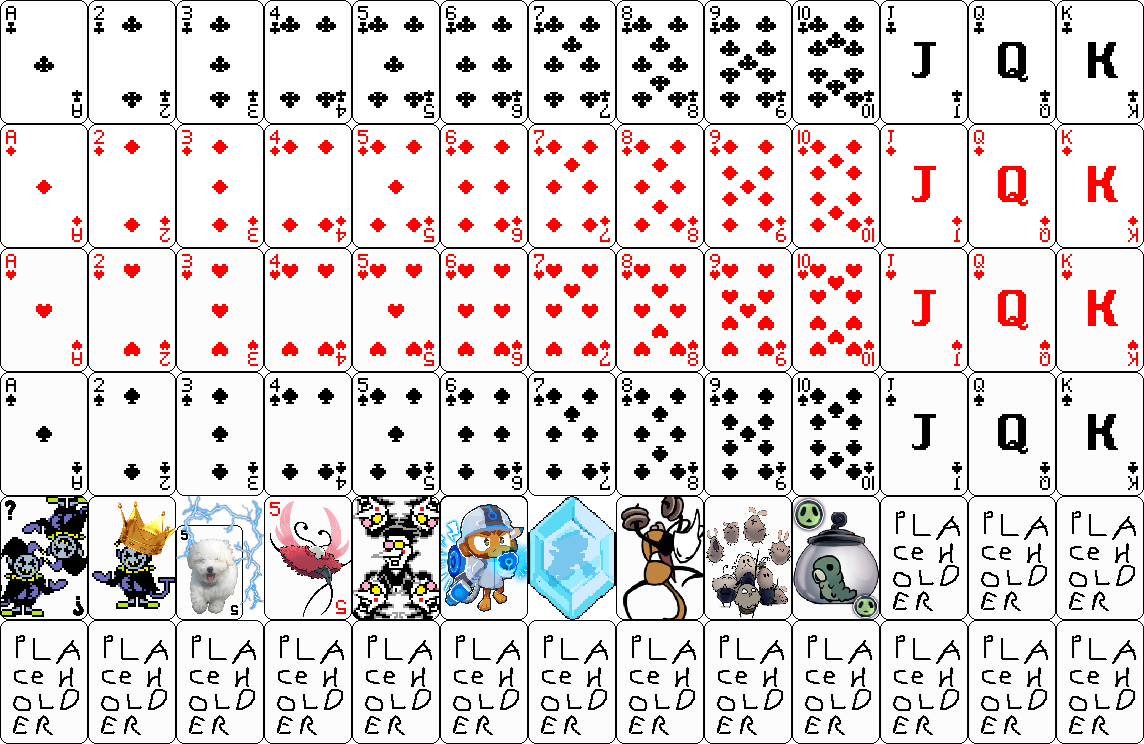
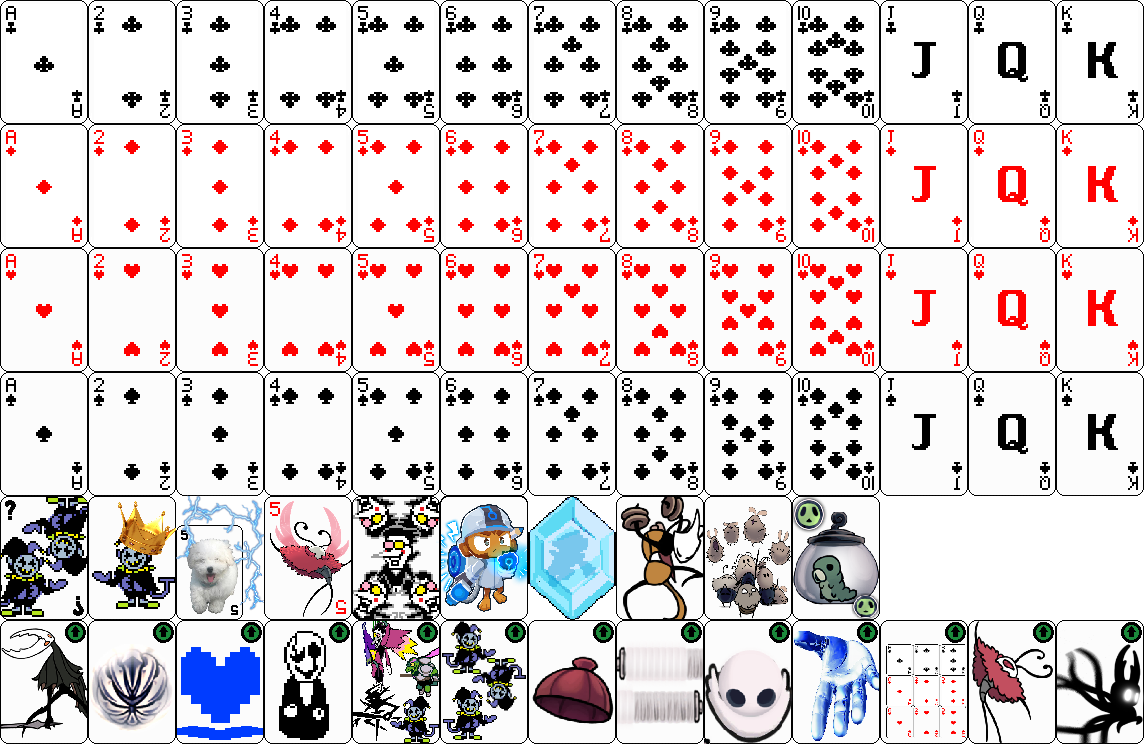
all card images

Changed region(s): [[0.0, 0.6801, 1.0, 1.0], [0.7649, 0.6801, 0.7955, 0.711]]

diff --git a/js/game state/upgrades.js b/js/game state/upgrades.js
@@ -23,19 +23,19 @@ window.all_upgrades = {
     ],
 
     "permanent_upgrades": [
-    {"suit": "permanent_upgrade_row_1", "value": "increase_max_total_value", "hover_name": "power of the vessel", "hover_text": "'Sealed away it's power grows.' permanent upgrade: increases the maximum total value by 2", "effect": increase_max_total_value},
-    {"suit": "permanent_upgrade_row_1", "value": "increase_max_total_value_but_less_discards", "hover_name": "fragile strength", "hover_text": "'Great strength but great risks.' permanent upgrade: increases the maximum total value by 5 but have 1 less discard", "effect": increase_max_total_value_but_less_discards},
-    {"suit": "permanent_upgrade_row_1", "value": "increase_blackjack_bonus", "hover_name": "blue SOUL focus", "hover_text": "'patience brings better score.' permanent upgrade: increases the blackjack bonus multiplier by 0.5", "effect": increase_blackjack_bonus},
-    {"suit": "permanent_upgrade_row_1", "value": "extra_upgrade_slot_but_decrease_max_total_value", "hover_name": "A 🕈📬🕈 ☝☟✌💧❄☜☼ deal", "hover_text": "'A deal with 🕈📬🕈 ☝☟✌💧❄☜☼ can't be good right?' permanent upgrade: increases the amount of upgrades you can choose from by 1 but maximum total value decreases by 3", "effect": extra_upgrade_slot_but_decrease_max_total_value},
-    {"suit": "permanent_upgrade_row_1", "value": "extra_upgrade_slot_but_decrease_hands", "hover_name": "Deal for a weird crystal", "hover_text": "'What does this crystal do?' permanent upgrade: increases the amount of upgrades you can choose from by 1 but maximum number of hands decreases by 1", "effect": extra_upgrade_slot_but_decrease_hands},
-    {"suit": "permanent_upgrade_row_1", "value": "increase_hands_but_negative_blackjack", "hover_name": "Jester's chaos", "hover_text": "'Chaos, Chaos! more turns less mercy!' permanent upgrade: increases number of hands by 1 but decrease blackjack multiplier to -0.5 (losing points for blackjack)", "effect": increase_hands_but_negative_blackjack},
-    {"suit": "permanent_upgrade_row_1", "value": "increase_hands_but_less_discards", "hover_name": "drifter's cloak", "hover_text": "'Go further, but remove what brings you down' permanent upgrade: increases number of hands by 1 but have 1 less discard", "effect": increase_hands_but_less_discards},
-    {"suit": "permanent_upgrade_row_1", "value": "increase_discards_but_less_hands", "hover_name": "silken strategy", "hover_text": "'Embrace the silk, but lose your grip.' permanent upgrade: increases number of discards by 1 but have 1 less hand", "effect": increase_discards_but_less_hands},
-    {"suit": "permanent_upgrade_row_1", "value": "increase_discards_but_draw_more", "hover_name": "soul overflow", "hover_text": "'Embrace the chaos.' permanent upgrade: increases number of discards by 6 but draw 5 more cards at the beginning", "effect": increase_discards_but_draw_more},
+    {"suit": "permanent_upgrade_row_1", "value": "increase_max_total_value", "hover_name": "power of the vessel", "hover_text": "'Sealed away it's power grows.' permanent upgrade: increases the maximum total value by 2", "effect": increase_max_total_value},// hk refrence
+    {"suit": "permanent_upgrade_row_1", "value": "increase_max_total_value_but_less_discards", "hover_name": "fragile strength", "hover_text": "'Great strength but great risks.' permanent upgrade: increases the maximum total value by 5 but have 1 less discard", "effect": increase_max_total_value_but_less_discards}, // hk refrence
+    {"suit": "permanent_upgrade_row_1", "value": "increase_blackjack_bonus", "hover_name": "blue SOUL focus", "hover_text": "'patience brings better score.' permanent upgrade: increases the blackjack bonus multiplier by 0.5", "effect": increase_blackjack_bonus}, // undertale reference
+    {"suit": "permanent_upgrade_row_1", "value": "extra_upgrade_slot_but_decrease_max_total_value", "hover_name": "A 🕈📬🕈 ☝☟✌💧❄☜☼ deal", "hover_text": "'A deal with 🕈📬🕈 ☝☟✌💧❄☜☼ can't be good right?' permanent upgrade: increases the amount of upgrades you can choose from by 1 but maximum total value decreases by 3", "effect": extra_upgrade_slot_but_decrease_max_total_value}, // undertale reference
+    {"suit": "permanent_upgrade_row_1", "value": "extra_upgrade_slot_but_decrease_hands", "hover_name": "Deal for a weird crystal", "hover_text": "'What does this crystal do?' permanent upgrade: increases the amount of upgrades you can choose from by 1 but maximum number of hands decreases by 1", "effect": extra_upgrade_slot_but_decrease_hands}, // detarune reference
+    {"suit": "permanent_upgrade_row_1", "value": "increase_hands_but_negative_blackjack", "hover_name": "Jester's chaos", "hover_text": "'Chaos, Chaos! more turns less mercy!' permanent upgrade: increases number of hands by 1 but decrease blackjack multiplier to -0.5 (losing points for blackjack)", "effect": increase_hands_but_negative_blackjack}, // detarune reference
+    {"suit": "permanent_upgrade_row_1", "value": "increase_hands_but_less_discards", "hover_name": "drifter's cloak", "hover_text": "'Go further, but remove what brings you down' permanent upgrade: increases number of hands by 1 but have 1 less discard", "effect": increase_hands_but_less_discards}, // hk refrence
+    {"suit": "permanent_upgrade_row_1", "value": "increase_discards_but_less_hands", "hover_name": "silken strategy", "hover_text": "'Embrace the silk, but lose your grip.' permanent upgrade: increases number of discards by 1 but have 1 less hand", "effect": increase_discards_but_less_hands}, // hk refrence
+    {"suit": "permanent_upgrade_row_1", "value": "increase_discards_but_draw_more", "hover_name": "soul overflow", "hover_text": "'Embrace the chaos.' permanent upgrade: increases number of discards by 6 but draw 5 more cards at the beginning", "effect": increase_discards_but_draw_more}, // hk refrence
     {"suit": "permanent_upgrade_row_1", "value": "1_hand_now", "hover_name": "glass hand", "hover_text": "'make sure it does not shatter' permanent upgrade: this round you have 1 hand but after this round you will get 2", "effect": hand_now_1_later_2},
     {"suit": "permanent_upgrade_row_1", "value": "gain_discard_each_hand", "hover_name": "'Make it turn based'", "hover_text": "permanent upgrade: gain a discard every round but start with 2 less discards", "effect": gain_discard_each_hand},
-    {"suit": "permanent_upgrade_row_1", "value": "less_hands_but_reuse_face_cards", "hover_name": "Mask of a performer", "hover_text": "'the show must go on.' permanent upgrade: lose 1 hand but can reuse face cards", "effect": less_hands_but_reuse_face_cards},
-    {"suit": "permanent_upgrade_row_1", "value": "less_hands_and_discards_but_retrigger_face_cards", "hover_name": "void's echo", "hover_text": "'From the abyss you will gain strength at a great cost.' permanent upgrade: lose 1 hand and 1 discard but can retrigger face cards", "effect": less_hands_and_discards_but_retrigger_face_cards},
+    {"suit": "permanent_upgrade_row_1", "value": "less_hands_but_reuse_face_cards", "hover_name": "Mask of a performer", "hover_text": "'the show must go on.' permanent upgrade: lose 1 hand but can reuse face cards", "effect": less_hands_but_reuse_face_cards},// hk refrence
+    {"suit": "permanent_upgrade_row_1", "value": "less_hands_and_discards_but_retrigger_face_cards", "hover_name": "void's echo", "hover_text": "'From the abyss you will gain strength at a great cost.' permanent upgrade: lose 1 hand and 1 discard but can retrigger face cards", "effect": less_hands_and_discards_but_retrigger_face_cards}, // hk refrence
     ],
 
 

diff --git a/js/start page/card_scroll.js b/js/start page/card_scroll.js
@@ -28,9 +28,9 @@ function choose_random_card() {
   let col = Math.floor(Math.random() * 13);
   let row = Math.floor(Math.random() * 6);
 
-  // if (row == 4 && col > 0) { // change coll higher depending on amount of special cards
-  //   col = 0; // reset to first special card
-  // }
+  if (row == 4 && col > 10) { // change coll higher depending on amount of special cards
+    col = 0; // reset to first special card
+  }
 
   change_card(col, row);
 }
